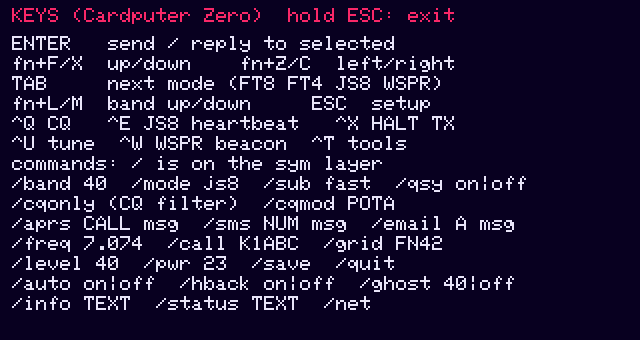
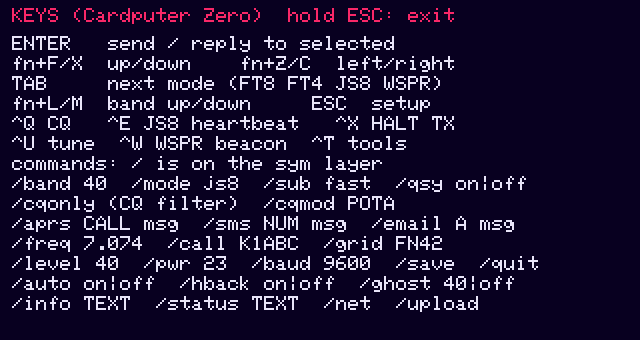
Setup > CAT baud picker; FT-891 at 9600 baud with PTT over CAT (Digirig DR-891)
- new Setup item under CAT port: auto (radio default) or 4800, 9600, 19200,
  38400, 57600, 115200; /baud N|auto; reset to auto when the radio changes
- FT-891: 9600 baud (Digirig DR-891 manual), PTT over CAT (DR-891 has no
  RTS keying; confirmed on the owner's FT-891 + DR-891), CAT on the radio's
  own CP2105 Enhanced port
- serial auto-detect: earlier hints rank higher, so the FT-891's CP2105 wins
  over a Digirig Mobile CP2102N
- docs: CAT baud, FT-891 + DR-891 menu settings; help, Setup screenshots

diff --git a/src/ui/views.c b/src/ui/views.c
@@ -416,7 +416,7 @@ enum { MI_MODE,
        MI_SUB, MI_AUTO, MI_HBACK, MI_INFO, MI_STATUS, MI_GHOST, MI_GN80, MI_GN40, MI_GN20,   /* JS8 */
        MI_APRS, MI_APOS, MI_AMSG, MI_ASMS, MI_AMAIL,                                          /* JS8 APRS */
        MI_WRX, MI_WPWR, MI_WPCT,                                                              /* WSPR */
-       MI_BAND, MI_QSY, MI_CALL, MI_GRID, MI_RADIO, MI_PORT, MI_AIN, MI_AINLVL, MI_AINMETER, MI_AOUT, MI_AOUTLVL, MI_ARESCAN, MI_TXL,
+       MI_BAND, MI_QSY, MI_CALL, MI_GRID, MI_RADIO, MI_PORT, MI_BAUD, MI_AIN, MI_AINLVL, MI_AINMETER, MI_AOUT, MI_AOUTLVL, MI_ARESCAN, MI_TXL,
        MI_AGRID, MI_TUNE, MI_SAVE, MI_QUIT, MI_COUNT };
 
 static int menu_visible(const app_t *a, int i)
@@ -463,6 +463,10 @@ static void menu_value(app_t *a, int i, char *out)
         }
         break;
     }
+    case MI_BAUD:
+        if (a->cfg.rig_baud) snprintf(out, 64, "%d", a->cfg.rig_baud);
+        else snprintf(out, 64, "auto (%d)", a->radio->baud);
+        break;
     case MI_AIN: case MI_AOUT: {
         const char *v = i == MI_AIN ? a->cfg.audio_in : a->cfg.audio_out;
         char n[48];
@@ -517,7 +521,7 @@ static const char *k_menu_names[MI_COUNT] = {
     [MI_ASMS] = "  Text a phone (SMS)", [MI_AMAIL] = "  Email",
     [MI_WRX] = "WSPR receive", [MI_WPWR] = "WSPR power", [MI_WPCT] = "WSPR TX %",
     [MI_BAND] = "Band", [MI_QSY] = "Auto frequency", [MI_CALL] = "Callsign", [MI_GRID] = "Grid",
-    [MI_RADIO] = "Radio", [MI_PORT] = "CAT port", [MI_AIN] = "Audio in", [MI_AINLVL] = "  In level", [MI_AINMETER] = "  In signal", [MI_AOUT] = "Audio out", [MI_AOUTLVL] = "  Out level", [MI_ARESCAN] = "Rescan audio",
+    [MI_RADIO] = "Radio", [MI_PORT] = "CAT port", [MI_BAUD] = "  CAT baud", [MI_AIN] = "Audio in", [MI_AINLVL] = "  In level", [MI_AINMETER] = "  In signal", [MI_AOUT] = "Audio out", [MI_AOUTLVL] = "  Out level", [MI_ARESCAN] = "Rescan audio",
     [MI_TXL] = "TX audio level", [MI_AGRID] = "Grid from GPS", [MI_TUNE] = "Tune 10 s",
     [MI_SAVE] = "Save settings", [MI_QUIT] = "Quit"};
 
@@ -578,6 +582,7 @@ static void render_menu(app_t *a, surface_t *s, int sc_large)
     }
     const char *hint = (a->menu_sel == MI_RADIO || a->menu_sel == MI_PORT || a->menu_sel == MI_AIN || a->menu_sel == MI_AOUT)
                          ? "ENTER: choose from what's connected"
+                     : a->menu_sel == MI_BAUD ? "ENTER: pick; must match the radio's CAT baud menu"
                      : a->menu_sel == MI_ARESCAN ? "look for sound devices again and reconnect"
                      : a->menu_sel == MI_AINLVL ? (a->mix_in.ok ? "</> aim for 50-70% on the In signal bar" : a->mix_in.error)
                      : a->menu_sel == MI_AOUTLVL ? (a->mix_out.ok ? "</> transmit audio level to the radio" : a->mix_out.error)
@@ -706,7 +711,7 @@ static void render_help(app_t *a, surface_t *s)
         "/cqonly (CQ filter)  /cqmod POTA",
         "/aprs CALL msg  /sms NUM msg  /email A msg",
         "/freq 7.074  /call K1ABC  /grid FN42",
-        "/level 40  /pwr 23  /save  /quit",
+        "/level 40  /pwr 23  /baud 9600  /save  /quit",
         "/auto on|off  /hback on|off  /ghost 40|off",
         "/info TEXT  /status TEXT  /net  /upload",
     };
@@ -790,13 +795,20 @@ static const char *dev_root(void)
 
 #define PICK_RESCAN "\x01rescan"
 
-static const char *k_pick_title[] = {"RADIO", "CAT PORT", "AUDIO IN", "AUDIO OUT"};
+static const char *k_pick_title[] = {"RADIO", "CAT PORT", "AUDIO IN", "AUDIO OUT", "CAT BAUD RATE"};
+static const int k_bauds[] = {4800, 9600, 19200, 38400, 57600, 115200};
+#define PICK_BAUD 4
 
 static const char *pick_current(app_t *a)
 {
     switch (a->pick_kind) {
     case 0: return a->radio->id;
     case 1: return a->cfg.rig_device;
+    case PICK_BAUD: {
+        static char b[16];
+        snprintf(b, sizeof b, "%d", a->cfg.rig_baud);
+        return b;
+    }
     case 2: return a->cfg.audio_in;
     default: return a->cfg.audio_out;
     }
@@ -814,7 +826,21 @@ static void fill_picker(app_t *a)
             dev_opt_t *o = &a->pick[i];
             snprintf(o->value, sizeof o->value, "%s", rl[i].id);
             snprintf(o->label, sizeof o->label, "%s", rl[i].name);
-            snprintf(o->desc, sizeof o->desc, "%s, %s PTT", rl[i].serial_default, ptt_name(rl[i].ptt));
+            snprintf(o->desc, sizeof o->desc, "%s, %d baud, %s PTT", rl[i].serial_default, rl[i].baud, ptt_name(rl[i].ptt));
+        }
+        break;
+    }
+    case PICK_BAUD: {
+        a->pick_n = 0;
+        dev_opt_t *o = &a->pick[a->pick_n++];
+        snprintf(o->value, sizeof o->value, "0");
+        snprintf(o->label, sizeof o->label, "auto (%d)", a->radio->baud);
+        snprintf(o->desc, sizeof o->desc, "the %s's usual setting", a->radio->name);
+        for (size_t i = 0; i < sizeof k_bauds / sizeof *k_bauds && a->pick_n < DEV_MAX; ++i) {
+            o = &a->pick[a->pick_n++];
+            snprintf(o->value, sizeof o->value, "%d", k_bauds[i]);
+            snprintf(o->label, sizeof o->label, "%d baud", k_bauds[i]);
+            snprintf(o->desc, sizeof o->desc, "%s", k_bauds[i] == a->radio->baud ? "the radio's default" : "set the radio's CAT baud to the same");
         }
         break;
     }
@@ -836,7 +862,7 @@ static void fill_picker(app_t *a)
         break;
     }
     }
-    if (a->pick_kind > 0 && a->pick_n < DEV_MAX) {          /* "Rescan" row on top */
+    if (a->pick_kind > 0 && a->pick_kind != PICK_BAUD && a->pick_n < DEV_MAX) {   /* "Rescan" row on top */
         memmove(&a->pick[1], &a->pick[0], sizeof a->pick[0] * a->pick_n);
         snprintf(a->pick[0].value, sizeof a->pick[0].value, "%s", PICK_RESCAN);
         snprintf(a->pick[0].label, sizeof a->pick[0].label, "<< Rescan >>");
@@ -845,14 +871,14 @@ static void fill_picker(app_t *a)
     }
     /* put the cursor on the current choice */
     const char *cur = pick_current(a);
-    a->pick_sel = a->pick_kind > 0 ? 1 : 0;              /* "auto" when nothing else matches */
+    a->pick_sel = a->pick_kind > 0 && a->pick_kind != PICK_BAUD ? 1 : 0;   /* "auto" when nothing else matches */
     for (int i = 0; i < a->pick_n; ++i)
         if (!strcmp(a->pick[i].value, cur) || (cur[0] && !strcmp(a->pick[i].label, cur))) a->pick_sel = i;
 }
 
 static void open_picker(app_t *a, int menu_item)
 {
-    a->pick_kind = menu_item == MI_RADIO ? 0 : menu_item == MI_PORT ? 1 : menu_item == MI_AIN ? 2 : 3;
+    a->pick_kind = menu_item == MI_RADIO ? 0 : menu_item == MI_PORT ? 1 : menu_item == MI_BAUD ? PICK_BAUD : menu_item == MI_AIN ? 2 : 3;
     fill_picker(a);
     a->screen = 4;
 }
@@ -871,6 +897,7 @@ static void picker_apply(app_t *a)
     switch (a->pick_kind) {
     case 0: app_use_radio(a, v); break;
     case 1: app_use_rig_device(a, v); break;
+    case PICK_BAUD: app_use_rig_baud(a, atoi(v)); break;
     case 2: app_use_audio(a, v, NULL); break;
     default: app_use_audio(a, NULL, v);
     }
@@ -885,7 +912,7 @@ static void render_picker(app_t *a, surface_t *s, int big)
     gfx_text(s, 2 * sc, 2 * sc, k_pick_title[a->pick_kind], C_MAGENTA, sc);
     gfx_text(s, s->w - gfx_text_w("ESC back", 1) - 4, 2 * sc, "ESC back", C_DIM, 1);
     gfx_hgrad(s, 0, 12 * sc, s->w, 1, C_MAGENTA, C_CYAN);
-    if (a->pick_kind > 0 && a->pick_n <= 2) {
+    if (a->pick_kind > 0 && a->pick_kind != PICK_BAUD && a->pick_n <= 2) {
         const char *what = a->pick_kind == 1 ? "no USB serial ports found" : a->pick_kind == 2 ? "nothing that records found" : "nothing that plays found";
         gfx_text(s, 8, s->h - 34 * sc, what, C_ORANGE, sc);
         gfx_text(s, 8, s->h - 24 * sc, "plug the radio in, then Rescan", C_DIM, sc);
@@ -905,7 +932,7 @@ static void render_picker(app_t *a, surface_t *s, int big)
         if (is_cur) gfx_text(s, s->w - gfx_text_w("in use", sc) - 6 * sc, y, "in use", C_MINT, sc);
         gfx_text_n(s, 8 * sc, y + 10 * sc, o->desc, cols, C_DIM, sc);
     }
-    gfx_text(s, 4, s->h - 10, "ENTER use  R rescan  then Setup > Save settings", C_FAINT, 1);
+    gfx_text(s, 4, s->h - 10, a->pick_kind == PICK_BAUD ? "ENTER use  then Setup > Save settings" : "ENTER use  R rescan  then Setup > Save settings", C_FAINT, 1);
 }
 
 static void menu_change(app_t *a, int dir)
@@ -916,7 +943,7 @@ static void menu_change(app_t *a, int dir)
     case MI_MODE: app_set_mode(a, (op_mode_t)((a->mode + MODE_COUNT + dir) % MODE_COUNT)); break;
     case MI_SUB: a->js8_sub = (a->js8_sub + 4 + dir) % 4; break;
     case MI_BAND: app_step_band(a, dir); break;
-    case MI_RADIO: case MI_PORT: case MI_AIN: case MI_AOUT: open_picker(a, a->menu_sel); break;
+    case MI_RADIO: case MI_PORT: case MI_BAUD: case MI_AIN: case MI_AOUT: open_picker(a, a->menu_sel); break;
     case MI_TXL: a->cfg.tx_level = (float)fmax(0.05, fmin(1.0, a->cfg.tx_level + dir * 0.05)); break;
     case MI_WPWR: {
         static const int v[] = {0,3,7,10,13,17,20,23,27,30,33,37,40,43,47};

diff --git a/src/core/app.c b/src/core/app.c
@@ -750,6 +750,10 @@ void app_use_radio(app_t *a, const char *id)
         qlog("rig", "radio changed to %s: CAT port %s -> auto", r->name, a->cfg.rig_device);
         a->cfg.rig_device[0] = 0;
     }
+    if (changed && a->cfg.rig_baud) {                    /* likewise a CAT baud rate: the new radio's default */
+        qlog("rig", "radio changed to %s: CAT baud %d -> auto (%d)", r->name, a->cfg.rig_baud, r->baud);
+        a->cfg.rig_baud = 0;
+    }
     if (r->qmx_ssb) {                                    /* settings only the operator can make on the radio */
         snprintf(a->notice, sizeof a->notice,
                  "On the QMX, set SSB menu > Filter RX and Filter TX to 3200 Hz, and SSB Input to USB or Auto. "
@@ -771,6 +775,17 @@ void app_use_rig_device(app_t *a, const char *dev)
 {
     if (a->tx_active) { app_status(a, "can't change while transmitting"); return; }
     snprintf(a->cfg.rig_device, sizeof a->cfg.rig_device, "%s", dev);
+    rig_reconnect(a);
+}
+
+/* CAT serial speed; 0 = the radio profile's default. Must match the radio's
+ * own CAT baud menu setting (e.g. FT-891 menu 05-06 CAT RATE). */
+void app_use_rig_baud(app_t *a, int baud)
+{
+    if (a->tx_active) { app_status(a, "can't change while transmitting"); return; }
+    a->cfg.rig_baud = baud;
+    qlog("rig", "CAT baud %s%d", baud ? "" : "auto: ", baud ? baud : a->radio->baud);
+    app_status(a, "CAT baud %d%s - set the same on the radio", baud ? baud : a->radio->baud, baud ? "" : " (radio default)");
     rig_reconnect(a);
 }
 
@@ -1581,6 +1596,12 @@ static int handle_command(app_t *a, char *cmd)
         }
     }
     else if (!strcmp(cmd, "/port")) app_use_rig_device(a, strcmp(arg, "auto") ? arg : "");
+    else if (!strcmp(cmd, "/baud")) {
+        int b = atoi(arg);
+        if (!strcasecmp(arg, "auto") || b == 0) app_use_rig_baud(a, 0);
+        else if (b == 4800 || b == 9600 || b == 19200 || b == 38400 || b == 57600 || b == 115200) app_use_rig_baud(a, b);
+        else app_status(a, "baud: auto, 4800, 9600, 19200, 38400, 57600 or 115200");
+    }
     else if (!strcmp(cmd, "/ain")) app_use_audio(a, strcmp(arg, "auto") ? arg : "", NULL);
     else if (!strcmp(cmd, "/aout")) app_use_audio(a, NULL, strcmp(arg, "auto") ? arg : "");
     else if (!strcmp(cmd, "/cqmod")) app_set_cq_mod(a, arg);

diff --git a/tests/test_devices.c b/tests/test_devices.c
@@ -135,6 +135,27 @@ int main(void)
         snprintf(q, sizeof q, "rm -rf %s", r4); if (system(q)) {}
     }
 
+    printf("[1d] Yaesu FT-891: its own CP2105 (Enhanced = if00) wins over a Digirig Mobile CP2102N\n");
+    {
+        /* PROVISIONAL names (Silicon Labs CP2105 / CP2102N by-id form); replace
+         * with the listing from the owner's FT-891 + Digirig DR-891 */
+        char r5[] = "/tmp/qsoz-891XXXXXX", q[700], v5[160];
+        if (!mkdtemp(r5)) return 1;
+        snprintf(q, sizeof q, "mkdir -p %s/dev/serial/by-id && cd %s/dev && touch ttyUSB0 ttyUSB1 ttyUSB2 && cd serial/by-id && "
+                 "ln -s ../../ttyUSB0 usb-Silicon_Labs_CP2102N_USB_to_UART_Bridge_Controller_a1b2-if00-port0 && "
+                 "ln -s ../../ttyUSB1 usb-Silicon_Labs_CP2105_Dual_USB_to_UART_Bridge_Controller_01A2B3C4-if00-port0 && "
+                 "ln -s ../../ttyUSB2 usb-Silicon_Labs_CP2105_Dual_USB_to_UART_Bridge_Controller_01A2B3C4-if01-port0", r5, r5);
+        if (system(q)) return 1;
+        const radio_profile_t *ft = radio_find("ft891");
+        CHECK(ft && ft->ptt == PTT_CAT && ft->baud == 9600, "ft891 profile: PTT over CAT, 9600 baud (Digirig DR-891)");
+        CHECK(ft && !dev_serial_auto(r5, ft->serial_hint, ft->serial_default, v5, sizeof v5) && strstr(v5, "CP2105_Dual_USB_to_UART_Bridge_Controller_01A2B3C4-if00"),
+              "FT-891 CAT -> %s (the radio's Enhanced port, not the Digirig's CP2102N)", v5);
+        snprintf(q, sizeof q, "rm -f %s/dev/serial/by-id/*CP2102N*", r5); if (system(q)) {}
+        CHECK(ft && !dev_serial_auto(r5, ft->serial_hint, ft->serial_default, v5, sizeof v5) && strstr(v5, "01A2B3C4-if00"),
+              "DR-891 alone (radio's CP2105 only) -> Enhanced port if00");
+        snprintf(q, sizeof q, "rm -rf %s", r5); if (system(q)) {}
+    }
+
     printf("[2] sound devices, split by direction\n");
     n = dev_audio_list(root, 1, "auto", o, DEV_MAX);
     CHECK(n == 4, "Audio in: auto + QMX, Device, ES8388Audio (got %d)", n);

diff --git a/src/rig/radios.c b/src/rig/radios.c
@@ -23,6 +23,11 @@
  * Hamlib default. Not yet tried on a Cardputer Zero: the device listing in
  * tests/test_devices.c is from the documentation and still to be replaced by
  * a real one.
+ * FT-891: the radio's built-in CP2105 (Enhanced port = CAT, interface 0) is
+ * the only serial port on its CAT path - the mini-DIN DATA jack has no serial
+ * lines. The Digirig DR-891 passes that USB port through its own hub; its
+ * PTT is CAT only (no RTS), confirmed on the owner's FT-891 + DR-891. 9600
+ * baud is the rate Digirig's DR-891 manual gives for menu 05-06 CAT RATE.
  * QMX and X6200 entries need Hamlib >= 4.6; on older Hamlib the app falls
  * back to the TS-480 / X6100 backends, which speak the same protocol.
  *
@@ -62,9 +67,11 @@ static const radio_profile_t k_radios[] = {
      "Icom|IC-705|IC705", "/dev/ttyACM0", "CODEC|Burr-Brown|IC-705|IC705", "PKTUSB", 10.0f, BANDS_ALL,
      "One USB cable to the micro-USB port: CAT (Serial Port A, if00) + audio. On the radio: SET > Connectors > MOD Input > "
      "DATA MOD = USB; CI-V address A4h; CI-V USB Echo Back OFF. 10 W on 13.8 V, 5 W on the battery."},
-    {"ft891", "Yaesu FT-891 + Digirig", 1036, 0, 38400, PTT_RTS,
-     "CP210", "/dev/ttyUSB0", "Device|C-Media|USB Audio", "PKTUSB", 100.0f, BANDS_ALL,
-     "In the radio menu set CAT RATE to 38400, data input to the rear DATA jack and PTT to RTS. Turn power down for QRP."},
+    {"ft891", "Yaesu FT-891 + Digirig", 1036, 0, 9600, PTT_CAT,
+     "CP2105|CP210", "/dev/ttyUSB0", "Device|C-Media|USB Audio", "PKTUSB", 100.0f, BANDS_ALL,
+     "CAT through the radio's own USB port (CP2105, Enhanced port), PTT over CAT: works with the Digirig DR-891 and with a "
+     "Digirig Mobile plus the radio's USB cable. Radio menu: 05-06 CAT RATE 9600, 05-08 CAT RTS DISABLE, 08-09 DATA IN SELECT REAR, "
+     "08-12 DATA BFO USB. Turn power down for QRP."},
 };
 
 const radio_profile_t *radio_find(const char *id)

diff --git a/tests/test_qsy.c b/tests/test_qsy.c
@@ -364,6 +364,17 @@ int main(void)
         CHECK(a.cfg.rig_device[0] == 0, "radio changed: pinned CAT port reset to auto");
         CHECK(!strcmp(g_mode, "PKTUSB") && g_pb == 3000, "X6200 still gets PKTUSB (USB-D) 3 kHz (%s %d)", g_mode, g_pb);
         CHECK(fabsf(a.cfg.tx_level - 0.5f) < 1e-6, "X6200: TX audio level left alone (%.2f)", a.cfg.tx_level);
+        /* CAT baud: chosen in Setup, back to the radio's default when the radio changes */
+        app_use_radio(&a, "ft891");
+        for (int i = 0; i < 60 && a.rig_busy; ++i) wait_s(0.1);
+        app_use_rig_baud(&a, 38400);
+        for (int i = 0; i < 60 && a.rig_busy; ++i) wait_s(0.1);
+        CHECK(a.cfg.rig_baud == 38400 && a.radio->baud == 9600, "FT-891: CAT baud set to 38400 (radio default 9600)");
+        app_use_radio(&a, "x6200");
+        for (int i = 0; i < 60 && a.rig_busy; ++i) wait_s(0.1);
+        CHECK(a.cfg.rig_baud == 0, "radio changed: CAT baud back to auto");
+        app_use_rig_baud(&a, 0);
+        for (int i = 0; i < 60 && a.rig_busy; ++i) wait_s(0.1);
         a.notice[0] = 0;
         app_use_radio(&a, "ic705");
         for (int i = 0; i < 60 && a.rig_busy; ++i) wait_s(0.1);

diff --git a/src/core/devices.c b/src/core/devices.c
@@ -91,11 +91,13 @@ int dev_serial_candidates(const char *root, const char *hints, char out[][160], 
     }
     for (int i = 1; i < n; ++i) {
         if (strncmp(o[i].value, "/dev/serial/by-id/", 18)) continue;
-        int score = 0;
+        /* earlier hints win: "CP2105|CP210" prefers the FT-891's own CP2105
+         * over a Digirig Mobile's CP2102N */
+        int score = 0, ti = 0;
         char h[128];
         snprintf(h, sizeof h, "%s", hints ? hints : "");
-        for (char *save = NULL, *t = strtok_r(h, "|", &save); t; t = strtok_r(NULL, "|", &save))
-            if (t[0] != '@' && strcasestr(o[i].value, t)) { score = 10; break; }
+        for (char *save = NULL, *t = strtok_r(h, "|", &save); t; t = strtok_r(NULL, "|", &save), ++ti)
+            if (t[0] != '@' && strcasestr(o[i].value, t)) { score = 10 + 2 * (8 - (ti < 8 ? ti : 8)); break; }
         if (!score) continue;
         if (strstr(o[i].value, pref)) score += 5;
         sc[k] = score; idx[k] = i; ++k;

diff --git a/src/core/app.h b/src/core/app.h
@@ -183,6 +183,7 @@ int64_t ghostnet_freq(int band);
 void app_set_ghostnet(app_t *a, int on);          /* on: JS8 on the nearest GHOSTNET band */
 void app_ghostnet_band(app_t *a, int band);       /* JS8 + GHOSTNET default frequency on this band */
 void app_use_rig_device(app_t *a, const char *dev);
+void app_use_rig_baud(app_t *a, int baud);                 /* 0 = the radio's default */
 void app_use_audio(app_t *a, const char *in, const char *out);
 void app_rescan_audio(app_t *a);
 int  log_dir_make(const char *file);   /* create the folder a file goes in (mkdir -p); 0 = ok */

diff --git a/Operations.md b/Operations.md
@@ -49,8 +49,9 @@ In Setup, move with ↑ / ↓ (fn+F / fn+X) and change values with ← / → (fn
 |---|---|---|
 | 1 | **Callsign** | Enter opens the input line with `/call ` filled in. Type your call and press Enter. |
 | 2 | **Grid** | Enter, then type your 4- or 6-character locator in capitals (`FN42` or `FN42HN`) and press Enter. With the GPS Cap, turn on **Grid from GPS** instead. |
-| 3 | **Radio** | Enter shows the list. Pick your radio with ↑ / ↓ and press Enter. Changing the radio puts **CAT port** back on auto. There are three QMX entries, one per hardware version (80-20m, 60-15m and 20-10m): choose yours, because they look identical over CAT and only the right one keeps band changes to bands your QMX has filters for. Choosing any of them also sets **TX audio level** to 100%, because the QMX only keys up when its audio is above 80%. |
+| 3 | **Radio** | Enter shows the list. Pick your radio with ↑ / ↓ and press Enter. Changing the radio puts **CAT port** and **CAT baud** back on auto. There are three QMX entries, one per hardware version (80-20m, 60-15m and 20-10m): choose yours, because they look identical over CAT and only the right one keeps band changes to bands your QMX has filters for. Choosing any of them also sets **TX audio level** to 100%, because the QMX only keys up when its audio is above 80%. |
 | 4 | **CAT port** | Leave on **auto**. If the radio isn't found, Enter shows every serial port with what it is. |
+| 4a | **CAT baud** | **auto** uses the radio's usual rate (shown in brackets). If you've set a different CAT baud rate in the radio's menu, pick the same one here: 4800, 9600, 19200, 38400, 57600 or 115200. Changing the radio puts it back on auto. |
 | 5 | **Audio in / Audio out** | Leave on **auto**: it picks the radio's USB sound card. |
 | 6 | **In level** | Use ← / → until the **In signal** bar sits between the two white marks (50–70%) on a busy band. Red means it's clipping. |
 | 7 | **Out level** and **TX audio level** | Start around 50% and adjust so the radio's ALC barely moves when you transmit. **Tune 10 s** sends a carrier you can check with. |
@@ -148,6 +149,7 @@ Anything you type on the main screen is sent as a message in the current mode, *
 | `/inlevel`, `/outlevel` | `/inlevel 45` | the sound card's receive / transmit level, in % |
 | `/tune` | `/tune 5` | send a tune carrier for that many seconds (up to 30; plain `/tune` is 10) |
 | `/port` | `/port /dev/ttyACM1` | CAT port (`/port auto` to go back to automatic) |
+| `/baud` | `/baud 9600` | CAT baud rate: 4800, 9600, 19200, 38400, 57600, 115200 or `auto` (the radio's usual rate) |
 | `/ain`, `/aout` | `/ain plughw:CARD=Device,DEV=0` | sound card for receive / transmit (`auto` for automatic) |
 | `/rescan` | `/rescan` | look for sound cards again and reconnect |
 | `/net` | `/net` | check the internet now and send any waiting WSPR spots |
@@ -353,6 +355,13 @@ With **Auto frequency** on (the default), changing mode or band tunes the radio 
 
 For every digital mode, QSO-Zero puts the radio in its data mode with a 3 kHz passband (USB-D, U-DIG or DATA-U, depending on the radio) and reads it back to check. A radio without a data mode (such as the G90) gets USB at the widest passband it accepts. You don't need to set the mode on the radio.
 
+**Yaesu FT-891 with a Digirig DR-891:** the DR-891 passes the radio's own USB port through, so CAT and PTT both go over it (PTT is CAT, not RTS). In the radio's menu (hold **F**), set:
+* **05-06 CAT RATE: 9600** (QSO-Zero's default for the FT-891; if you use another rate, pick it in **CAT baud**)
+* **05-08 CAT RTS: DISABLE**
+* **08-09 DATA IN SELECT: REAR** and **08-12 DATA BFO: USB**
+
+Auto picks the radio's **Enhanced** serial port (`…CP2105…-if00`), even with an older Digirig Mobile plugged in too. With a Digirig Mobile, connect the radio's own USB cable for CAT as well.
+
 **Icom IC-705:** set **DATA MOD** to **USB** on the radio (*MENU › SET › Connectors › MOD Input › DATA MOD*), so that in USB-D the transmit audio comes from the Cardputer. Leave the CI-V address at A4h and *CI-V USB Echo Back* OFF (the defaults). The IC-705 hasn't been tested with QSO-Zero yet.
 
 **QRP Labs QMX:** QSO-Zero runs the QMX in its **USB** (SSB) mode for all digital modes, because FT8 decoded only in that mode, not in the QMX's Digi mode, in testing. Some settings in the QMX's own **SSB** menu make that work fully. They're stored in the radio, so they only need setting once, and QSO-Zero can't set them over CAT, so when you choose a QMX in Setup a flashing box reminds you for 30 seconds (esc closes it):
@@ -361,8 +370,9 @@ For every digital mode, QSO-Zero puts the radio in its data mode with a 3 kHz pa
 
 ### Choosing the radio, port and sound cards
 
-Setup has pickers for **Radio**, **CAT port**, **Audio in** and **Audio out**. Press Enter on one to see what's plugged in right now, pick with ↑ / ↓ and press Enter. Changes take effect straight away; use Save settings to keep them.
+Setup has pickers for **Radio**, **CAT port**, **CAT baud**, **Audio in** and **Audio out**. Press Enter on one to see what's plugged in right now, pick with ↑ / ↓ and press Enter. Changes take effect straight away; use Save settings to keep them.
 * **auto** (the default) finds the radio by its USB ID and uses its USB sound card. It never picks the Cardputer's built-in audio.
+* **CAT baud** has to match the CAT baud rate set in the radio's own menu. The usual rates are: QMX 115200, X6100 / X6200 / G90 / IC-705 19200, FT-891 9600.
 * The X6100 and X6200 have CAT on their second USB serial interface; auto finds it. The IC-705 has CAT on its first (`…IC-705…-if00`); its second carries GPS / RTTY data.
 * After plugging the radio in while QSO-Zero is running, use Setup › **Rescan audio** (or `/rescan`).
 
@@ -454,7 +464,7 @@ The activity log (`~/.cache/qso-zero/qso-zero.log`) records the radio connection
 
 | Problem | Try |
 |---|---|
-| *radio not connected* | Check the cable and that the radio is on. Setup › CAT port: pick the port by name. |
+| *radio not connected* | Check the cable and that the radio is on. Setup › CAT port: pick the port by name. Setup › CAT baud: the same rate as the radio's CAT baud menu. |
 | No decodes, waterfall dark | Setup › Audio in, then Rescan audio. Check the In signal bar moves. |
 | Few decodes, In signal red | Turn **In level** down until the bar is 50–70%. |
 | Decodes but nobody answers | Check the clock chip (green GPS, or SYS with internet time), TX audio level and ALC, and that the radio is transmitting. |

diff --git a/README.md b/README.md
@@ -47,11 +47,11 @@ On an HDMI monitor:
 | Xiegu X6100 | `x6100` | built-in USB | 160–6 m |
 | Xiegu X6200 | `x6200` | built-in USB | 160–6 m |
 | Icom IC-705 | `ic705` | built-in USB (micro-USB port) | 160–6 m |
-| Yaesu FT-891 | `ft891` | Digirig (CAT + DATA jack), PTT on RTS | 160–6 m |
+| Yaesu FT-891 | `ft891` | Digirig DR-891 (one USB cable), or a Digirig Mobile plus the radio's USB cable; CAT and PTT over the radio's USB port at 9600 baud | 160–6 m |
 
 The QMX comes in three hardware versions with different band filters. They all look the same to the computer, so pick the one you have in **Setup › Radio**: QSO-Zero then only offers that version's bands.
 
-QSO-Zero finds the radio's CAT port and USB sound card by itself. You can also pick them in Setup.
+QSO-Zero finds the radio's CAT port and USB sound card by itself. You can also pick them in Setup, along with the **CAT baud** rate, which must match the rate set in the radio's own menu.
 
 Even with the defaults, you may need to set the correct paths yourself, for example when the radio has more than one serial port or another USB device is plugged in. Check that Setup shows your radio's port under **CAT port** (the X6100 and X6200 use their second port, `/dev/ttyACM1`, shown as `…-if02`; the IC-705 uses its first, `…-if00`) and its sound card under **Audio in** and **Audio out** (usually `plughw:CARD=Device,DEV=0`; on the IC-705, `plughw:CARD=CODEC,DEV=0`). The `[rig]` and `[audio]` lines from `qso-zero-setup --log` show which paths were used.
 
